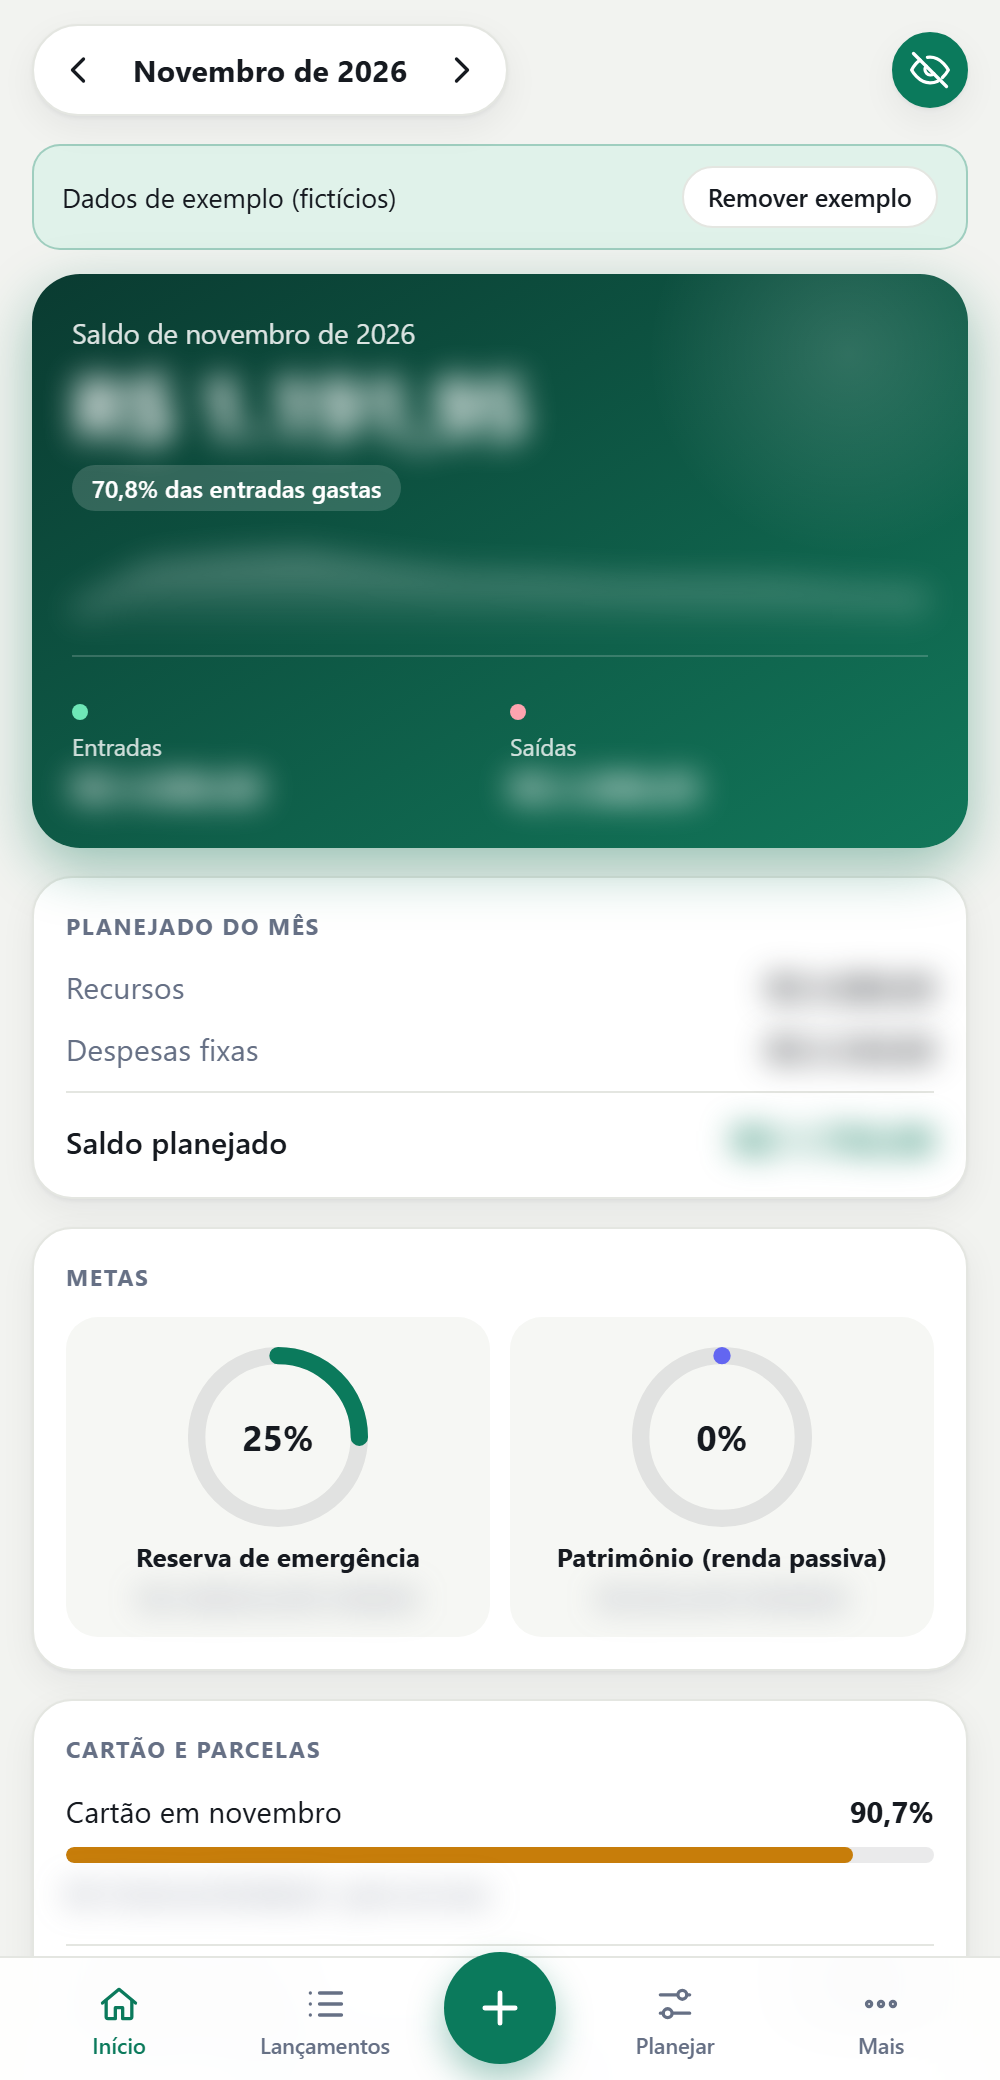
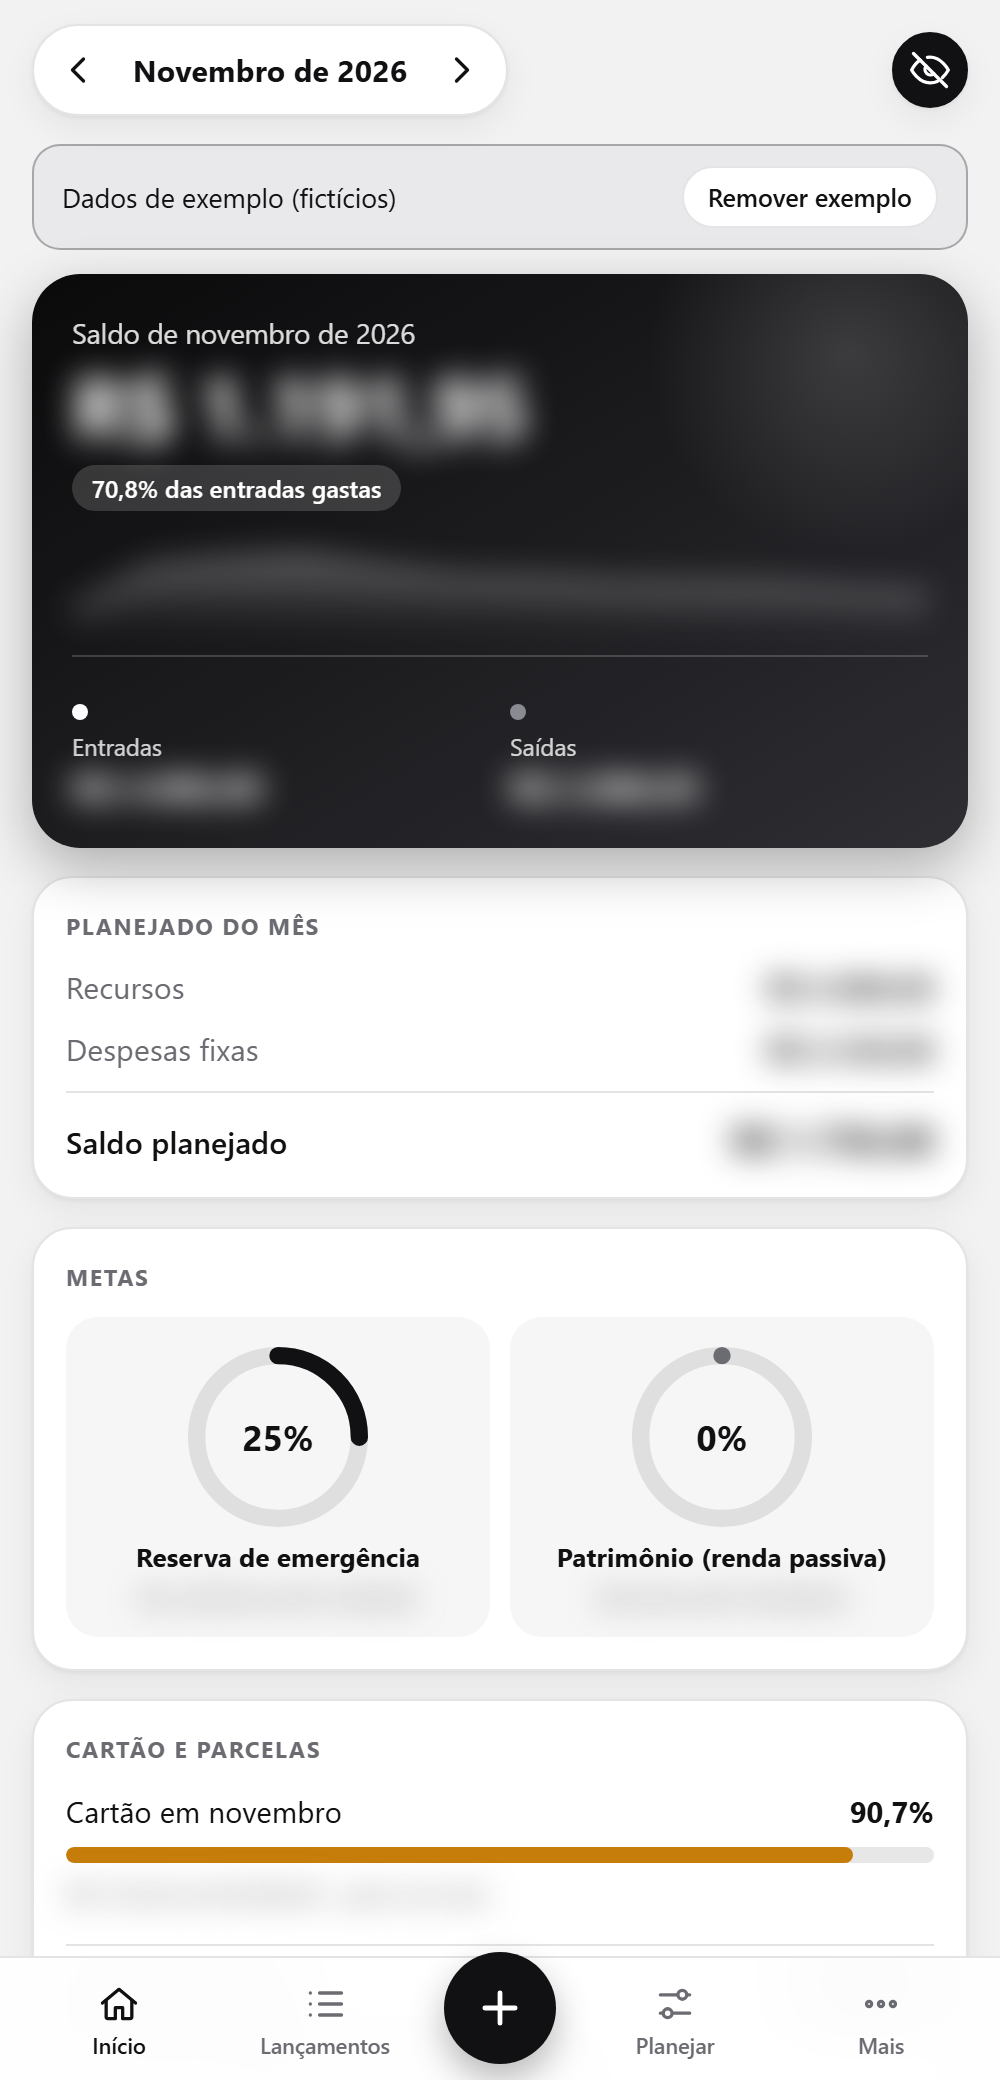
Troca a cor da marca para preto e branco
- Paleta neutra: preto como destaque no tema claro e branco no escuro
- Cartão do saldo, botões, anéis e barras sem verde; verde e vermelho ficam só para entrada e saída
- Novo ícone preto com barras brancas; manifest, theme-color e cache do service worker (v7)
- Capturas de tela refeitas

diff --git a/css/styles.css b/css/styles.css
@@ -2,33 +2,33 @@
    Mobile primeiro: barra de abas embaixo no celular, menu lateral no computador. */
 :root{
   color-scheme:light;
-  --bg:#f2f3f0; --surface:#ffffff; --surface2:#f6f7f4; --text:#161a20; --muted:#667085; --line:#e4e6e1;
-  --brand:#0b7a5c; --on-brand:#ffffff; --brand-soft:#e0f2ea;
+  --bg:#f2f2f2; --surface:#ffffff; --surface2:#f6f6f6; --text:#111113; --muted:#6b6b72; --line:#e4e4e6;
+  --brand:#111113; --on-brand:#ffffff; --brand-soft:#e9e9eb;
   --pos:#0c8f64; --neg:#d6364f; --warn:#c77d0a;
-  --hero1:#0a3b31; --hero2:#12775a;
-  --track:rgba(22,26,32,.09);
-  --shadow:0 1px 2px rgba(16,24,40,.05),0 6px 18px rgba(16,24,40,.06);
+  --hero1:#0a0a0b; --hero2:#2e2e33;
+  --track:rgba(17,17,19,.1);
+  --shadow:0 1px 2px rgba(0,0,0,.05),0 6px 18px rgba(0,0,0,.06);
   --radius:20px;
 }
 @media (prefers-color-scheme:dark){
   :root:not([data-theme="light"]){
     color-scheme:dark;
-    --bg:#0c0f12; --surface:#151a1f; --surface2:#1b2127; --text:#eef1f4; --muted:#8c97a4; --line:#242c34;
-    --brand:#34d399; --on-brand:#04261c; --brand-soft:rgba(52,211,153,.12);
+    --bg:#0a0a0b; --surface:#141415; --surface2:#1c1c1e; --text:#f5f5f5; --muted:#98989f; --line:#2a2a2d;
+    --brand:#ffffff; --on-brand:#0a0a0b; --brand-soft:rgba(255,255,255,.1);
     --pos:#3ddc97; --neg:#ff6b81; --warn:#f0b24a;
-    --hero1:#0d3a30; --hero2:#14694f;
-    --track:rgba(238,241,244,.1);
-    --shadow:0 1px 2px rgba(0,0,0,.3),0 8px 22px rgba(0,0,0,.25);
+    --hero1:#1d1d20; --hero2:#3d3d43;
+    --track:rgba(245,245,245,.12);
+    --shadow:0 1px 2px rgba(0,0,0,.4),0 8px 22px rgba(0,0,0,.35);
   }
 }
 :root[data-theme="dark"]{
   color-scheme:dark;
-  --bg:#0c0f12; --surface:#151a1f; --surface2:#1b2127; --text:#eef1f4; --muted:#8c97a4; --line:#242c34;
-  --brand:#34d399; --on-brand:#04261c; --brand-soft:rgba(52,211,153,.12);
+  --bg:#0a0a0b; --surface:#141415; --surface2:#1c1c1e; --text:#f5f5f5; --muted:#98989f; --line:#2a2a2d;
+  --brand:#ffffff; --on-brand:#0a0a0b; --brand-soft:rgba(255,255,255,.1);
   --pos:#3ddc97; --neg:#ff6b81; --warn:#f0b24a;
-  --hero1:#0d3a30; --hero2:#14694f;
-  --track:rgba(238,241,244,.1);
-  --shadow:0 1px 2px rgba(0,0,0,.3),0 8px 22px rgba(0,0,0,.25);
+  --hero1:#1d1d20; --hero2:#3d3d43;
+  --track:rgba(245,245,245,.12);
+  --shadow:0 1px 2px rgba(0,0,0,.4),0 8px 22px rgba(0,0,0,.35);
 }
 
 *,*::before,*::after{box-sizing:border-box;}
@@ -38,7 +38,7 @@ body{
   font:16px/1.4 -apple-system,BlinkMacSystemFont,"SF Pro Text","Segoe UI",Roboto,"Helvetica Neue",Arial,sans-serif;
   -webkit-font-smoothing:antialiased;-webkit-tap-highlight-color:transparent;
 }
-/* Faixa verde sob a barra de status do iPhone (app instalado em tela cheia) */
+/* Faixa escura sob a barra de status do iPhone (app instalado em tela cheia) */
 body::before{content:"";position:fixed;top:0;left:0;right:0;height:env(safe-area-inset-top,0px);background:var(--hero1);z-index:40;}
 button{font:inherit;color:inherit;border:0;background:none;padding:0;cursor:pointer;-webkit-appearance:none;appearance:none;}
 button:disabled{opacity:.5;cursor:not-allowed;}
@@ -65,7 +65,7 @@ h3,h4,p,dl,dd{margin:0;}
 .brand{display:none;}
 .navBtn{display:flex;flex-direction:column;align-items:center;gap:2px;padding:6px 0 4px;border-radius:12px;font-size:.68rem;font-weight:600;color:var(--muted);transition:color .15s;}
 .navBtn.active{color:var(--brand);}
-.navAdd{display:grid;place-items:center;width:56px;height:56px;margin:-20px 8px 2px;border-radius:50%;background:var(--brand);color:var(--on-brand);box-shadow:0 8px 18px color-mix(in srgb,var(--brand) 38%,transparent);transition:transform .15s;}
+.navAdd{display:grid;place-items:center;width:56px;height:56px;margin:-20px 8px 2px;border-radius:50%;background:var(--brand);color:var(--on-brand);box-shadow:0 8px 18px rgba(0,0,0,.28);transition:transform .15s;}
 .navAdd:active{transform:scale(.94);}
 .navAdd .ic{width:26px;height:26px;stroke-width:2.2;}
 .navAddText{display:none;}
@@ -102,7 +102,7 @@ h3,h4,p,dl,dd{margin:0;}
 .welcomeActions{display:grid;gap:8px;}
 
 /* Herói: saldo do mês */
-.hero{position:relative;overflow:hidden;isolation:isolate;padding:20px 20px 18px;border-radius:24px;color:#fff;background:linear-gradient(150deg,var(--hero1),var(--hero2));box-shadow:0 10px 28px color-mix(in srgb,var(--hero2) 40%,transparent);}
+.hero{position:relative;overflow:hidden;isolation:isolate;padding:20px 20px 18px;border-radius:24px;color:#fff;background:linear-gradient(150deg,var(--hero1),var(--hero2));box-shadow:0 10px 28px rgba(0,0,0,.28);}
 .hero::after{content:"";position:absolute;right:-40px;top:-60px;width:200px;height:200px;border-radius:50%;background:radial-gradient(closest-side,rgba(255,255,255,.14),transparent);z-index:-1;}
 .heroLabel{font-size:.86rem;opacity:.85;}
 .heroValue{font-size:clamp(2rem,9vw,2.7rem);font-weight:750;letter-spacing:-.02em;margin:2px 0 6px;line-height:1.1;}
@@ -112,7 +112,7 @@ h3,h4,p,dl,dd{margin:0;}
 .heroSplit small{display:block;font-size:.74rem;opacity:.8;}
 .heroSplit strong{font-size:1.08rem;font-weight:700;}
 .heroSplit .dot{display:inline-block;width:8px;height:8px;border-radius:50%;margin-right:6px;}
-.dot.in{background:#6ee7b7;} .dot.out{background:#fda4af;}
+.dot.in{background:#fff;} .dot.out{background:#8a8a92;}
 .spark{display:block;width:100%;height:46px;margin-top:14px;opacity:.9;pointer-events:none;}
 .sparkArea{fill:url(#saldoArea);}
 .sparkLine{fill:none;stroke:#fff;stroke-width:1.6;stroke-linecap:round;stroke-linejoin:round;vector-effect:non-scaling-stroke;}
@@ -135,7 +135,7 @@ button.ringTile{transition:transform .15s;} button.ringTile:active{transform:sca
 .ring circle{fill:none;stroke-width:3.4;}
 .ringBg{stroke:var(--track);}
 .ringFg{stroke:var(--brand);stroke-linecap:round;transition:stroke-dasharray .6s cubic-bezier(.2,.8,.2,1);}
-.ringFg.alt{stroke:#6366f1;}
+.ringFg.alt{stroke:var(--muted);}
 .ringFg.done{stroke:var(--pos);}
 .ring b{font-size:1.1rem;font-weight:750;font-variant-numeric:tabular-nums;}
 .ringTitle{font-size:.82rem;font-weight:650;line-height:1.2;}

diff --git a/index.html b/index.html
@@ -8,8 +8,8 @@
 <meta property="og:title" content="Meu Financeiro">
 <meta property="og:description" content="Controle financeiro pessoal em PWA offline, sem conta e sem servidor.">
 <meta name="color-scheme" content="light dark">
-<meta name="theme-color" content="#f2f3f0" media="(prefers-color-scheme: light)">
-<meta name="theme-color" content="#0c0f12" media="(prefers-color-scheme: dark)">
+<meta name="theme-color" content="#f2f2f2" media="(prefers-color-scheme: light)">
+<meta name="theme-color" content="#0a0a0b" media="(prefers-color-scheme: dark)">
 <link rel="manifest" href="manifest.webmanifest">
 <link rel="icon" type="image/svg+xml" href="icone-financeiro.svg">
 <link rel="apple-touch-icon" href="icone-financeiro-180.png">

diff --git a/sw.js b/sw.js
@@ -1,4 +1,4 @@
-const CACHE_NAME = 'meu-financeiro-v6';
+const CACHE_NAME = 'meu-financeiro-v7';
 const APP_SHELL = [
   './',
   './index.html',
